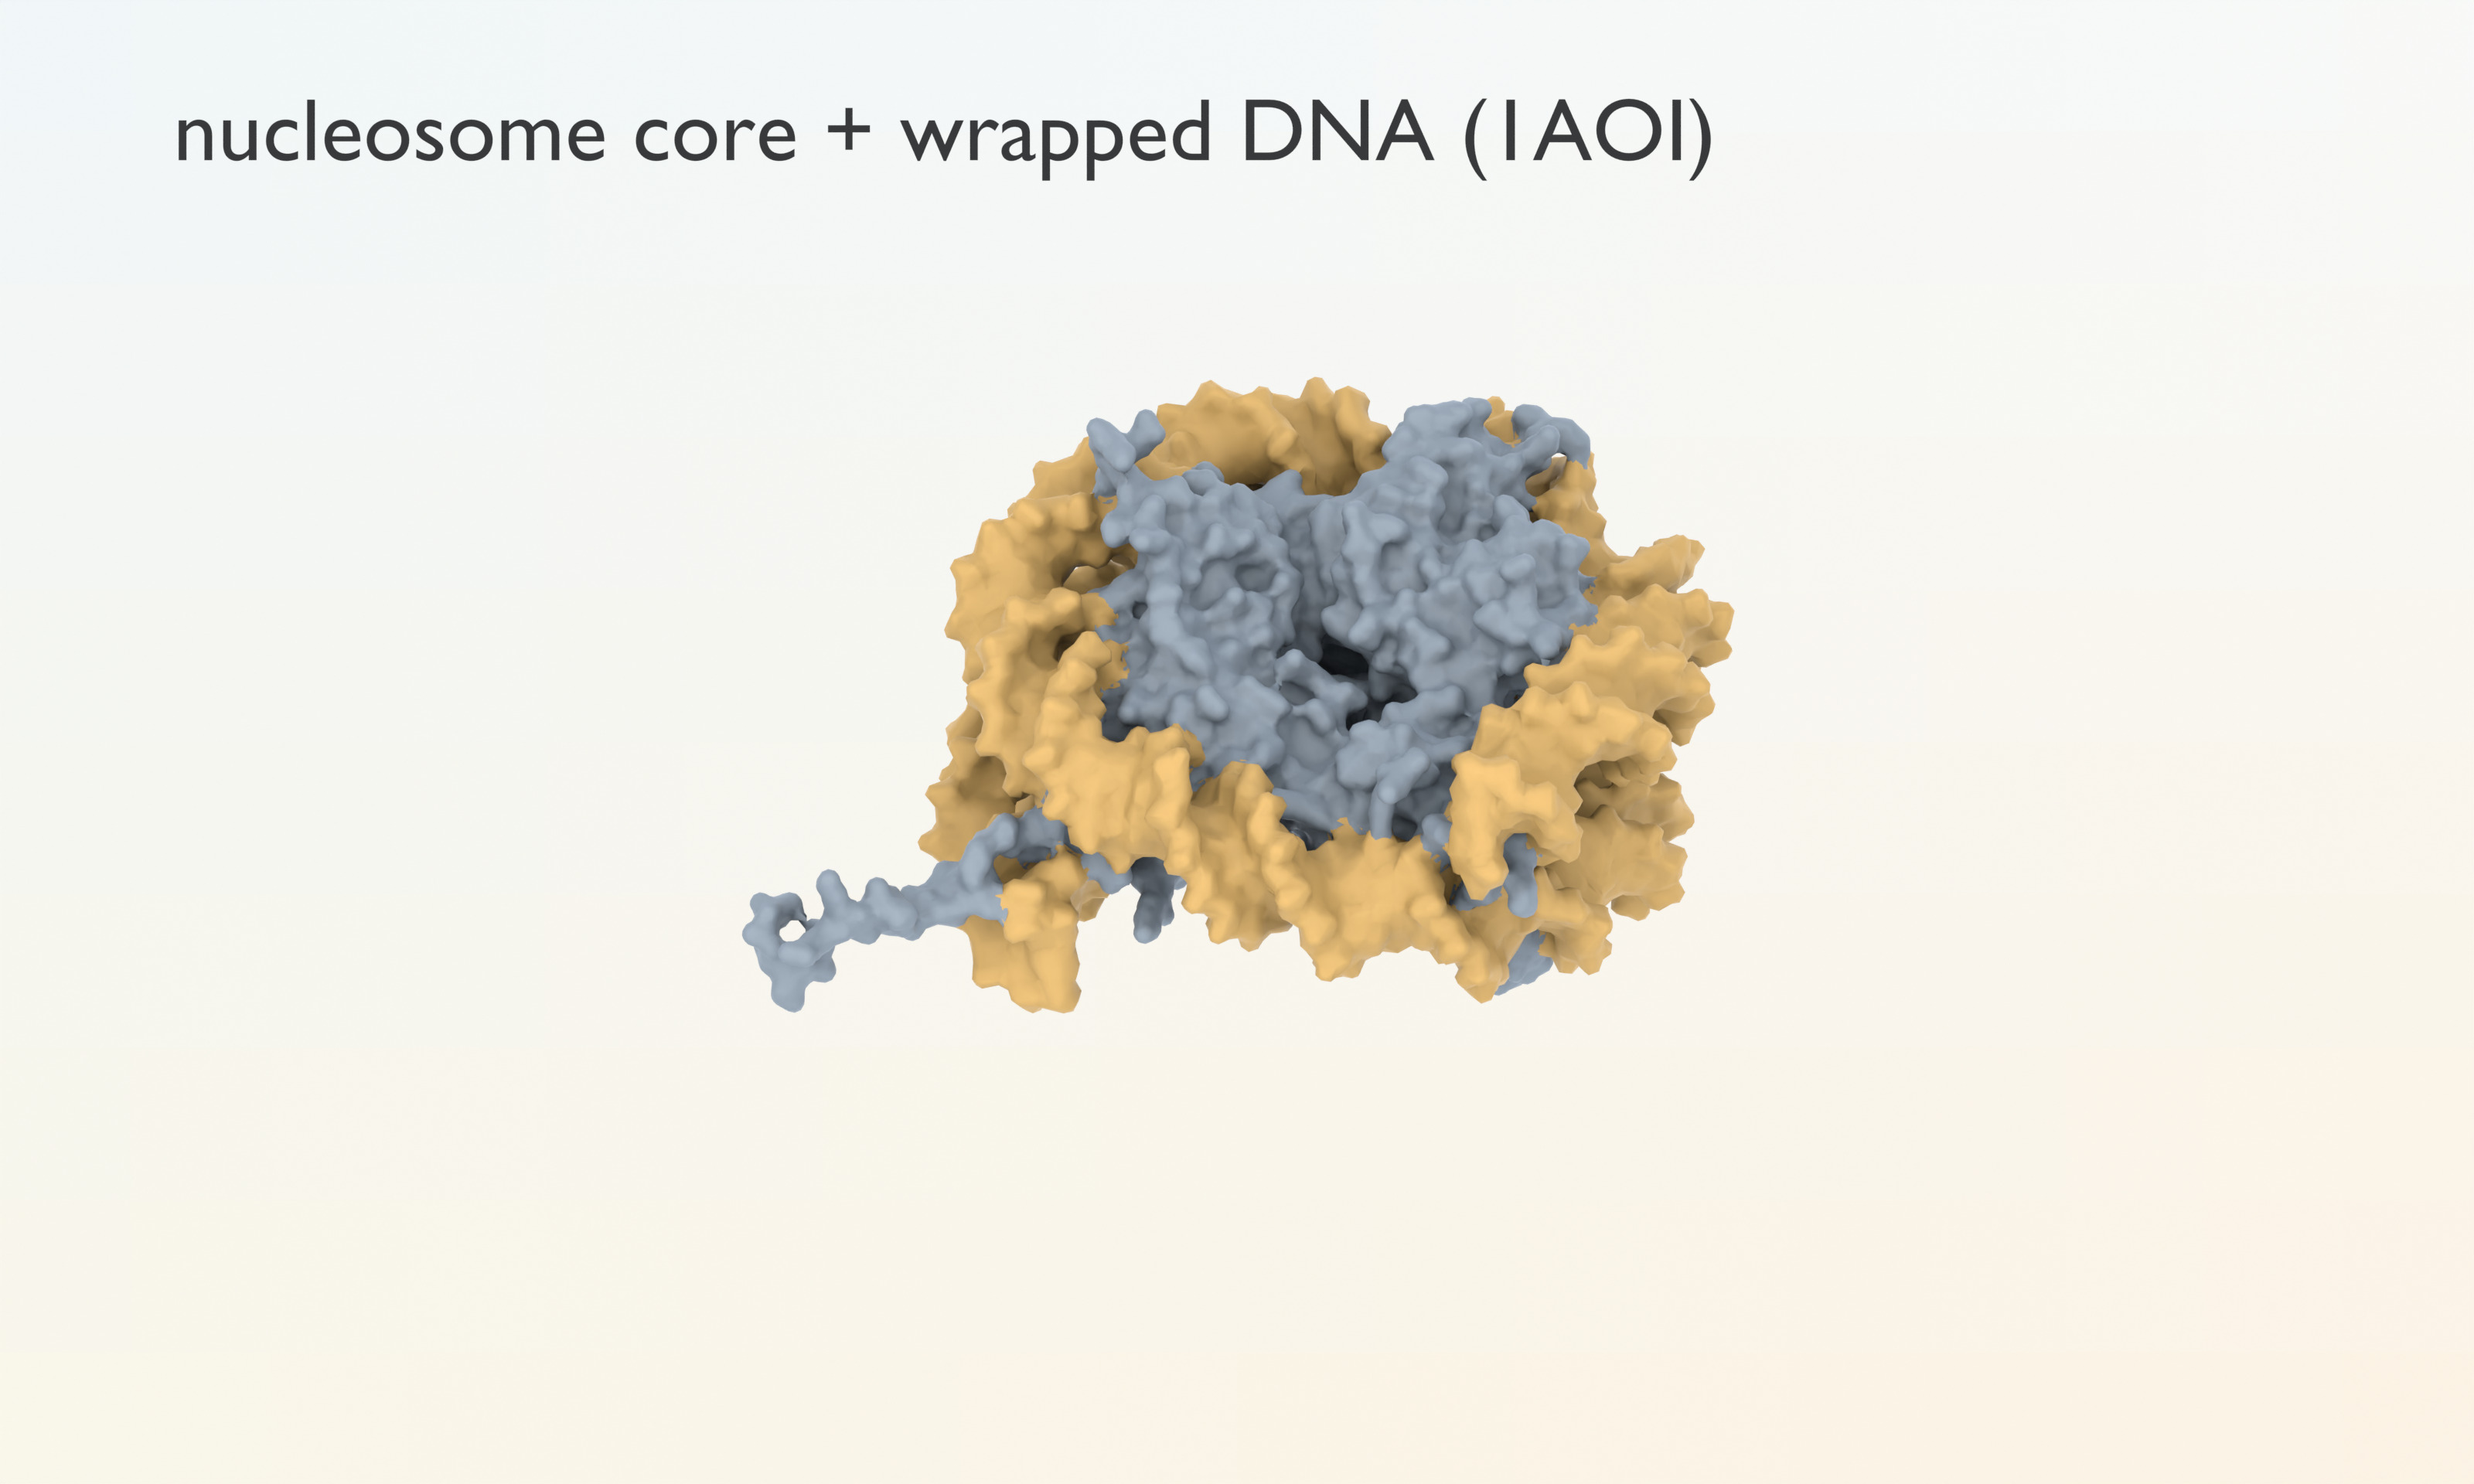
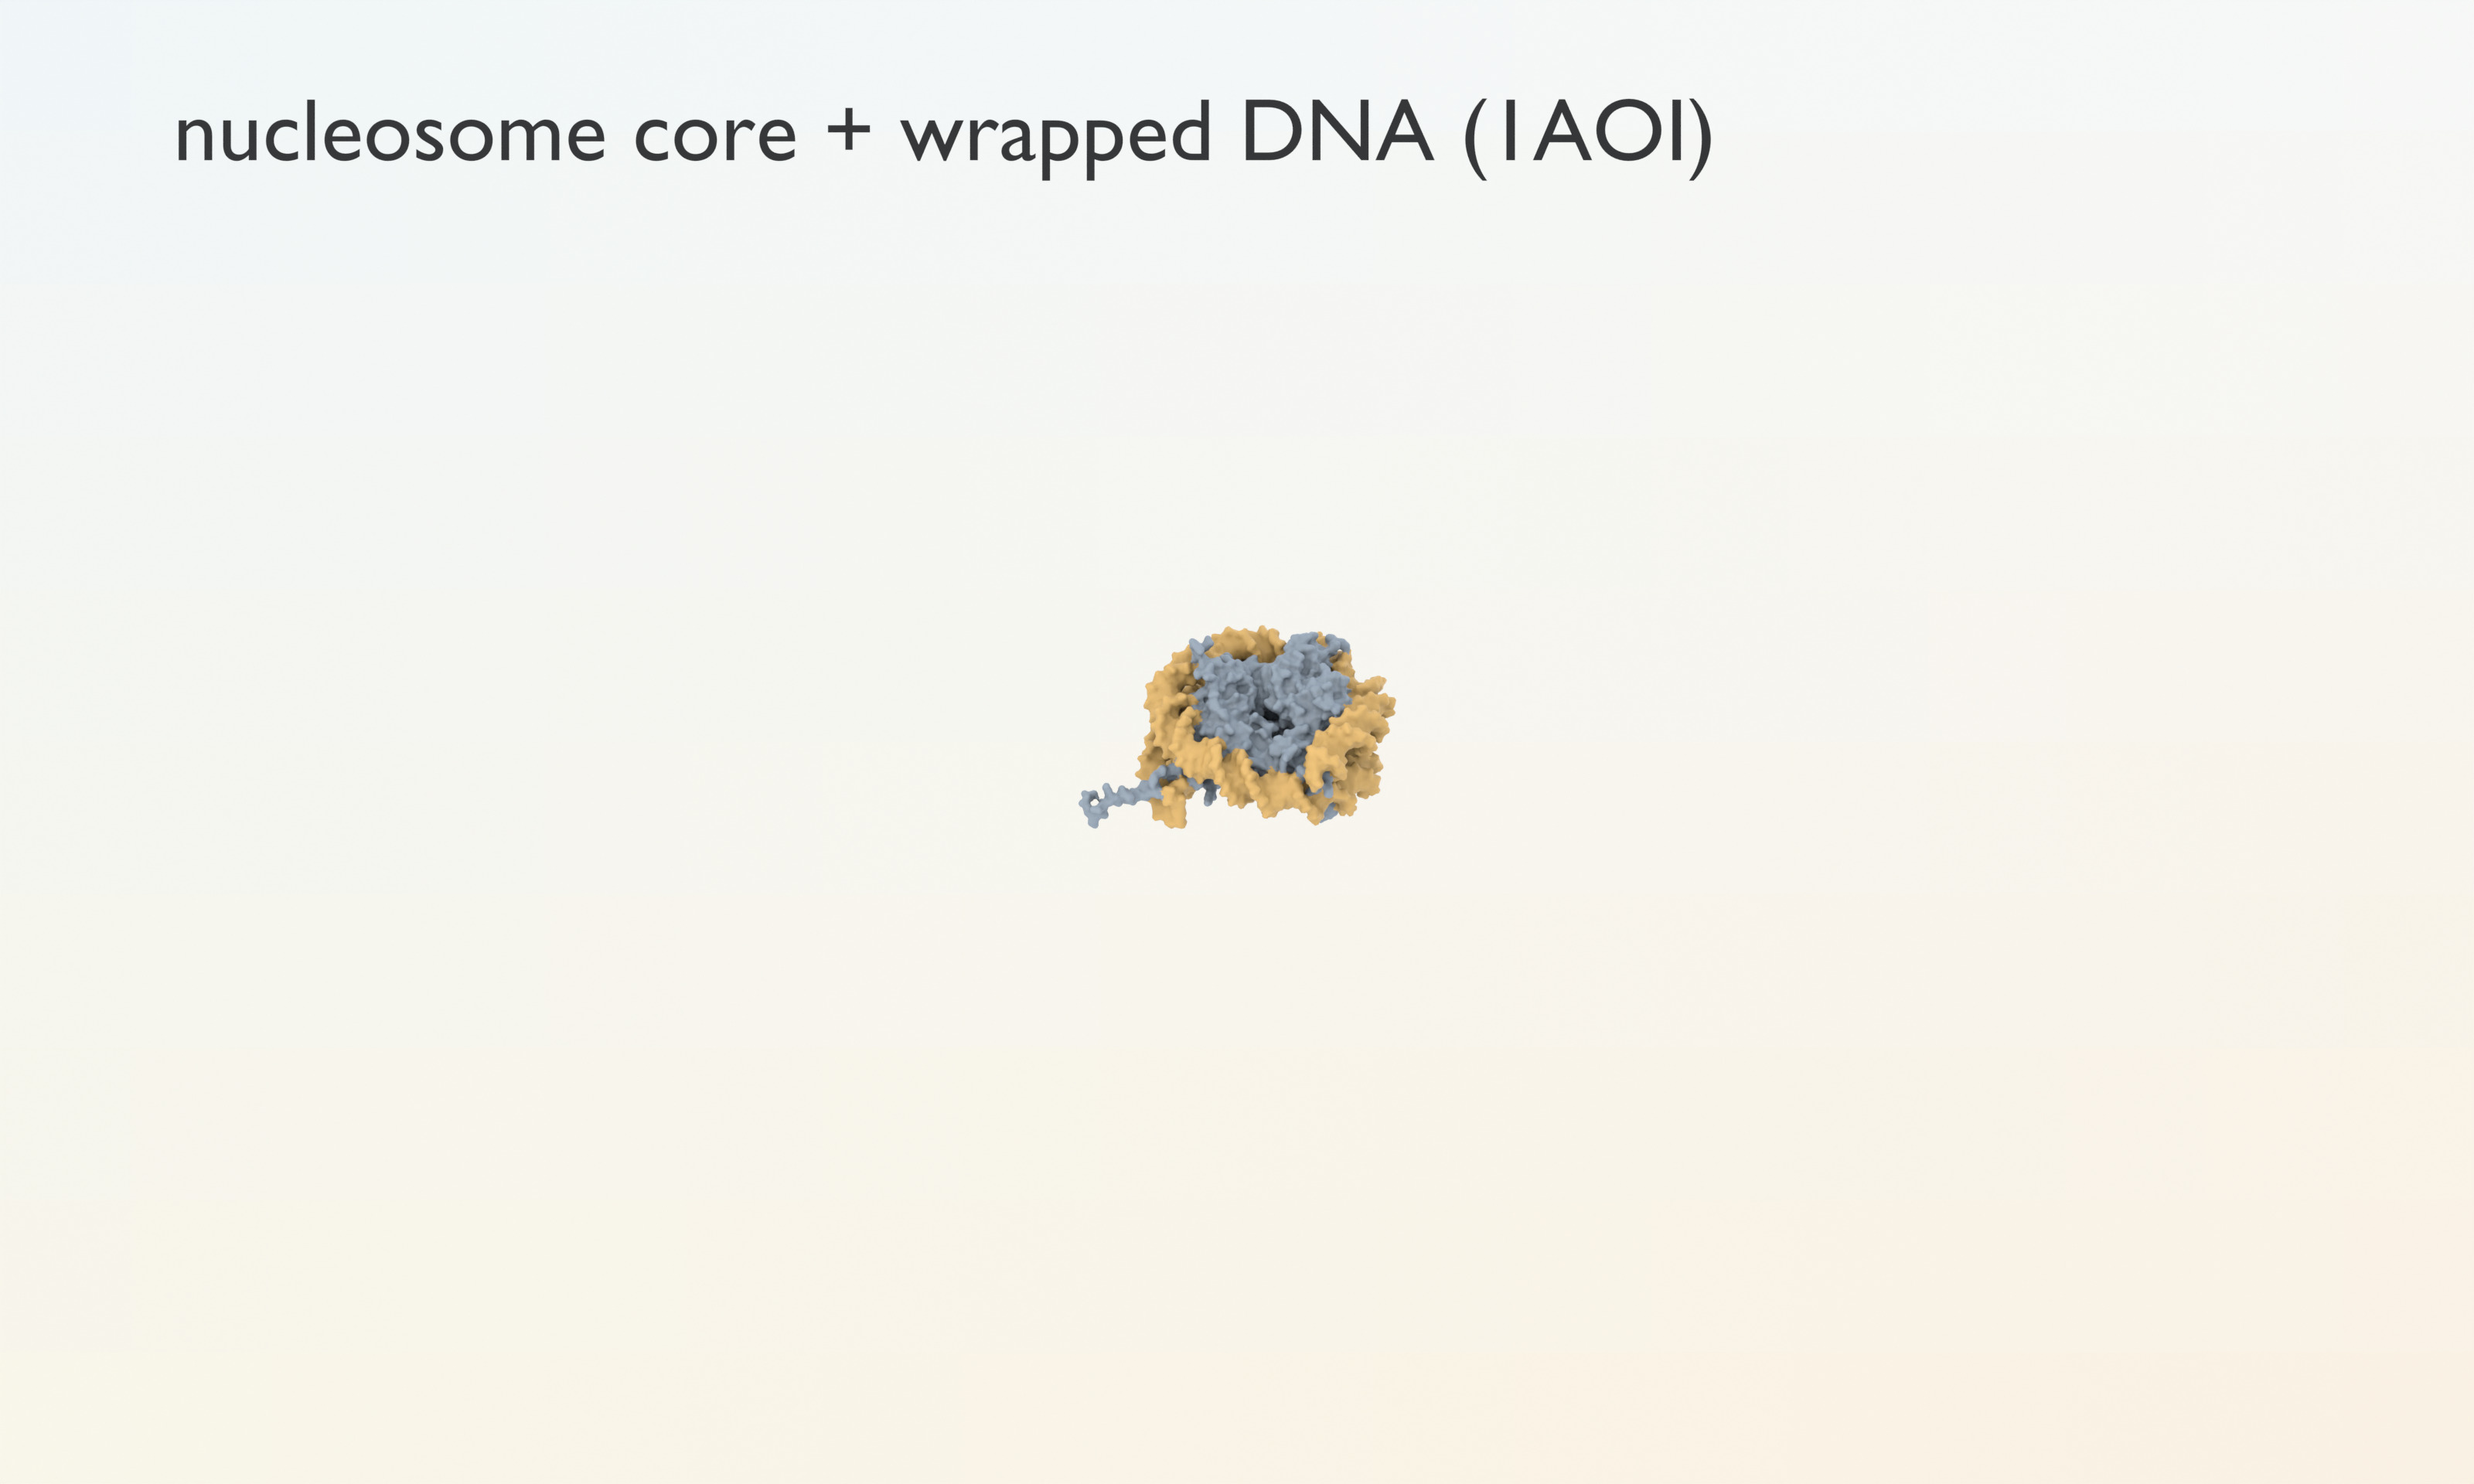
docs: updated readme
- Minor changes.

Changed region(s): [[0.2812, 0.25, 0.7188, 0.6875]]

diff --git a/scripts/build_gene_expression_surface_scene_v5.py b/scripts/build_gene_expression_surface_scene_v5.py
@@ -37,7 +37,9 @@ DETAIL_PREVIEWS = {
     "nucleosome_loop": OUTPUT_DIR / "preview_gene_expression_surface_style_v5_nucleosome_loop.png",
     "ribosome_trna": OUTPUT_DIR / "preview_gene_expression_surface_style_v5_ribosome_trna.png",
     "actin_product": OUTPUT_DIR / "preview_gene_expression_surface_style_v5_actin_product.png",
+    "cas9_dna": OUTPUT_DIR / "preview_gene_expression_surface_style_v5_cas9_dna.png",
 }
+DETAIL_SHARED_ORTHO_SCALE_MM = 42.0
 PROTEIN_AA_CONTOUR_NM = v5.PROTEIN_AA_CONTOUR_NM
 NANOMETER_SCALE_BAR_NM = 10.0
 V5_MATERIAL_COLORS = {
@@ -113,6 +115,7 @@ DETAIL_TITLES = {
     "polymerase_rna_start": "RNA polymerase II + nascent RNA (2E2I)",
     "ribosome_trna": "ribosome + tRNA",
     "actin_product": "ACTB protein (1J6Z)",
+    "cas9_dna": "Cas9 + guide/target DNA (4UN3)",
 }
 
 
@@ -1146,6 +1149,7 @@ def add_v5_cameras(
         + _asset_report_location(asset_reports, "Standalone tRNA")
     ) * (1.0 / 3.0)
     actin = _asset_report_location(asset_reports, "Actin protein")
+    cas9 = _asset_report_location(asset_reports, "Cas9")
 
     camera_names = {
         "full_overview": create_camera(
@@ -1183,6 +1187,12 @@ def add_v5_cameras(
             (actin.x - 7.0, actin.y - 10.0, actin.z + 8.0),
             actin,
             7.0,
+        ),
+        "cas9_dna": create_camera(
+            "Camera_v5_cas9_dna",
+            (cas9.x - 9.0, cas9.y - 13.0, cas9.z + 10.0),
+            cas9,
+            DETAIL_SHARED_ORTHO_SCALE_MM,
         ),
     }
     bpy.context.scene.camera = bpy.data.objects[camera_names["full_overview"]]
@@ -1244,6 +1254,7 @@ FOCUS_OBJECT_PATTERNS = {
         "detail_ribosome_mrna",
     ),
     "actin_product": ("Actin protein (1J6Z)",),
+    "cas9_dna": ("Cas9 (4UN3)",),
 }
 
 
@@ -1503,7 +1514,7 @@ def validate_v5_report(report: dict) -> None:
         failures.append({"reason": "wrong_compact_rna_variant", "actual": compact_report.get("variant")})
     if compact_report.get("stem_count") != 38 or compact_report.get("paired_stem_bridge_count", 0) <= 0:
         failures.append({"reason": "wrong_compact_rosette_secondary_structure", "stem_count": compact_report.get("stem_count"), "bridges": compact_report.get("paired_stem_bridge_count")})
-    expected_detail_keys = {"p53_dna", "nucleosome_loop", "polymerase_rna_start", "ribosome_trna", "actin_product"}
+    expected_detail_keys = {"p53_dna", "nucleosome_loop", "polymerase_rna_start", "ribosome_trna", "actin_product", "cas9_dna"}
     actual_detail_keys = set(report.get("detail_render_specs", {}))
     if actual_detail_keys != expected_detail_keys:
         failures.append({"reason": "wrong_detail_render_set", "actual": sorted(actual_detail_keys), "expected": sorted(expected_detail_keys)})
@@ -1683,6 +1694,7 @@ def main() -> None:
             "output": str(DETAIL_PREVIEWS[key]),
             "object_patterns": list(FOCUS_OBJECT_PATTERNS[key]),
             "margin_fraction": 0.12,
+            "shared_ortho_scale_mm": DETAIL_SHARED_ORTHO_SCALE_MM,
         }
         for key in DETAIL_TITLES
     }
@@ -1706,6 +1718,16 @@ def main() -> None:
         camera = bpy.data.objects[camera_names[key]]
         bpy.context.scene.camera = camera
         camera_fit = fit_camera_to_renderables(camera_names[key], margin_fraction=0.12)
+        fitted_scale = float(camera.data.ortho_scale)
+        if fitted_scale > DETAIL_SHARED_ORTHO_SCALE_MM + 1e-6:
+            raise RuntimeError(
+                f"Detail target {key} needs {fitted_scale:.3f} mm, exceeding shared "
+                f"orthographic scale {DETAIL_SHARED_ORTHO_SCALE_MM:.3f} mm"
+            )
+        camera.data.ortho_scale = DETAIL_SHARED_ORTHO_SCALE_MM
+        camera_fit["auto_fit_ortho_scale_mm"] = fitted_scale
+        camera_fit["new_ortho_scale_mm"] = DETAIL_SHARED_ORTHO_SCALE_MM
+        camera_fit["scale_policy"] = "identical_orthographic_scale_for_cross_panel_size_comparison"
         environment = add_v5_beauty_environment(camera_names[key], collections)
         title_object = create_detail_title(key, camera_names[key], collections, materials)
         bpy.context.scene.render.filepath = str(DETAIL_PREVIEWS[key])

diff --git a/README.md b/README.md
@@ -6,15 +6,17 @@ A three-dimensional sculpture of transcriptional and post-transcriptional contro
 
 ## Render Details
 
-| p53 tetramer with DNA | Nucleosome loop |
+|  |  |
 | --- | --- |
 | ![Full p53 tetramer bound to DNA](docs/images/v5-p53-dna.jpg) | ![Nucleosome core with wrapped DNA](docs/images/v5-nucleosome-loop.jpg) |
 
-| RNA polymerase II | Ribosome and tRNA |
+|  |  |
 | --- | --- |
 | ![RNA polymerase II with nascent RNA](docs/images/v5-transcription-start.jpg) | ![Ribosome with tRNA](docs/images/v5-translation.jpg) |
 
-![ACTB protein product](docs/images/v5-actin.jpg)
+|  |  |
+| --- | --- |
+| ![ACTB protein product](docs/images/v5-actin.jpg) | ![Cas9 with guide and target DNA](docs/images/v5-cas9-dna.jpg) |
 
 ## What Is Being Build Here
 - Scale-accurate 3D scene. 
@@ -73,6 +75,7 @@ V5 detail previews are written beside the main preview:
 - `outputs/canonical/preview_gene_expression_surface_style_v5_nucleosome_loop.png`
 - `outputs/canonical/preview_gene_expression_surface_style_v5_ribosome_trna.png`
 - `outputs/canonical/preview_gene_expression_surface_style_v5_actin_product.png`
+- `outputs/canonical/preview_gene_expression_surface_style_v5_cas9_dna.png`
 
 The V5 build uses:
 
